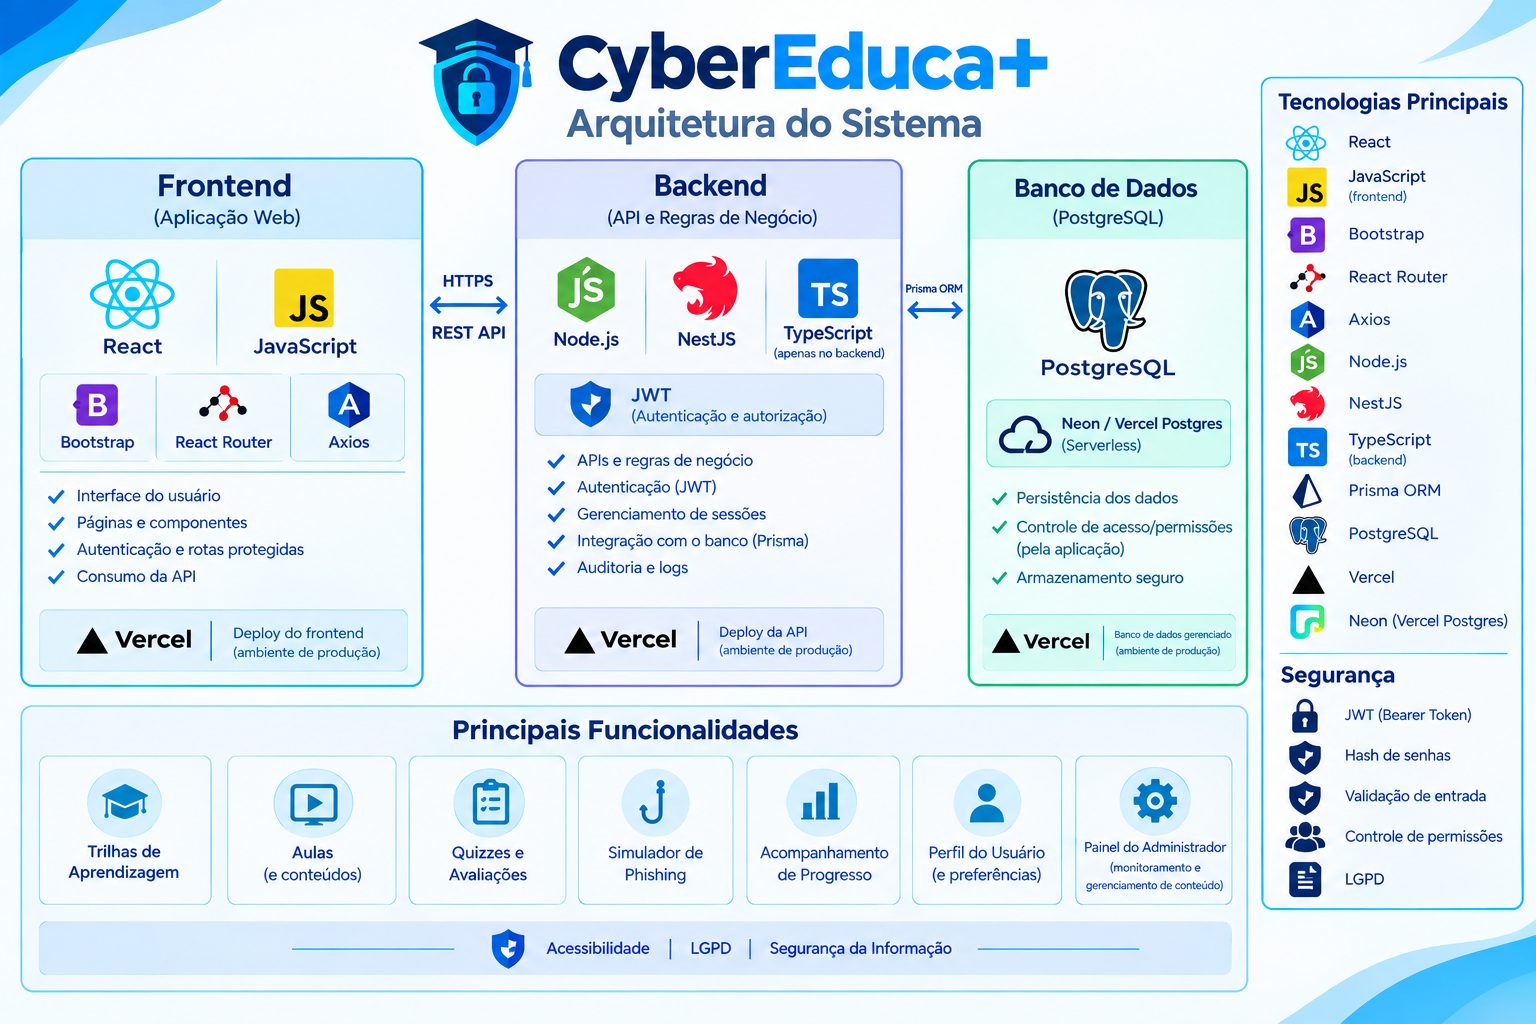
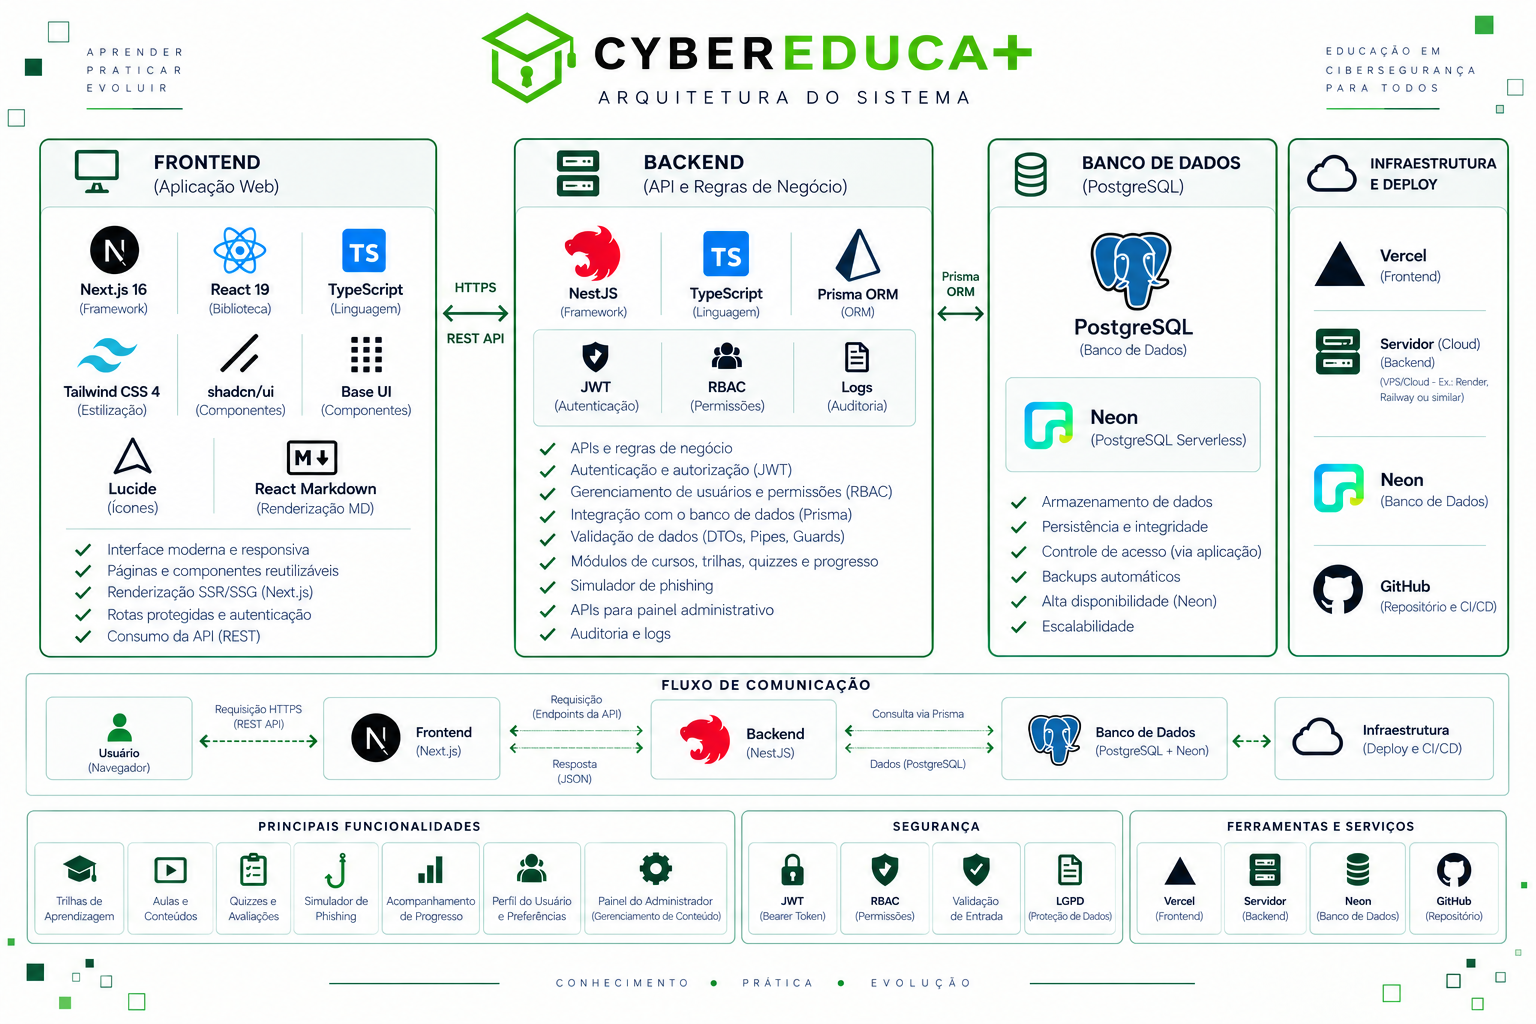
docs: atualiza README

diff --git a/README.md b/README.md
@@ -6,13 +6,13 @@
 
 ![Status](https://img.shields.io/badge/status-em%20desenvolvimento-yellow)
 ![Licença](https://img.shields.io/badge/licença-acadêmica-lightgrey)
-![React](https://img.shields.io/badge/React-61dafb?logo=react&logoColor=black)
-![Vite](https://img.shields.io/badge/Vite-646cff?logo=vite&logoColor=white)
-![JavaScript](https://img.shields.io/badge/JavaScript-f7df1e?logo=javascript&logoColor=black)
-![NestJS](https://img.shields.io/badge/NestJS-e0234e?logo=nestjs&logoColor=white)
+![Next.js](https://img.shields.io/badge/Next.js%2016-000000?logo=nextdotjs&logoColor=white)
+![React](https://img.shields.io/badge/React%2019-61dafb?logo=react&logoColor=black)
 ![TypeScript](https://img.shields.io/badge/TypeScript-3178c6?logo=typescript&logoColor=white)
-![PostgreSQL](https://img.shields.io/badge/PostgreSQL-336791?logo=postgresql&logoColor=white)
+![Tailwind CSS](https://img.shields.io/badge/Tailwind%20CSS%204-06b6d4?logo=tailwindcss&logoColor=white)
+![NestJS](https://img.shields.io/badge/NestJS-e0234e?logo=nestjs&logoColor=white)
 ![Prisma](https://img.shields.io/badge/Prisma-2d3748?logo=prisma&logoColor=white)
+![PostgreSQL](https://img.shields.io/badge/PostgreSQL-336791?logo=postgresql&logoColor=white)
 
 ## Sobre o projeto
 
@@ -26,6 +26,10 @@ Desenvolvido como **Projeto Final de Curso (PFC)** da **Universidade de Mogi das
 
 <br clear="right"/>
 
+## Objetivo
+
+Oferecer uma ferramenta prática e acessível de capacitação em cibersegurança, na qual o usuário aprende por meio de trilhas de conteúdo, valida o conhecimento com quizzes e treina a identificação de ameaças reais através de um simulador de cenários de phishing, com acompanhamento contínuo do seu progresso.
+
 ## Integrantes
 
 | Integrante | Nome completo | RGM |
@@ -36,63 +40,76 @@ Desenvolvido como **Projeto Final de Curso (PFC)** da **Universidade de Mogi das
 
 **Orientador(a):** Alessandro Aparecido da Silva Horas
 
-## Funcionalidades
+## 👥 Atores do Sistema
+
+- **Administrador:** gerencia trilhas, aulas, quizzes, cenários de phishing e usuários da plataforma pelo painel administrativo.
+- **Usuário:** realiza trilhas e aulas, responde quizzes, pratica no simulador de phishing e acompanha sua evolução e histórico de desempenho.
+
+## ⚙ Funcionalidades
 
 - Trilhas de aprendizagem, aulas e conteúdos
 - Acompanhamento de progresso por trilha
 - Quizzes de múltipla escolha com correção e feedback
 - Histórico de desempenho e resultados
 - Simulador de cenários de phishing com classificação e análise de sinais de risco
-- Cadastro, login/logout e perfil básico de usuário
+- Cadastro, login/logout e perfil do usuário (com gerenciamento de preferências)
+- Seção de notícias sobre cibersegurança, com artigos ilustrando ameaças reais
 - Navegação entre as áreas do sistema
 - Painel administrativo (dashboard, gerenciamento de trilhas, quizzes, phishing e usuários)
 
-## Tecnologias
-
-**Front-end:** React.js, Vite, JavaScript, Bootstrap 5, React Router, Axios
-
-**Back-end:** Node.js, NestJS, TypeScript, JWT (autenticação), validação de DTOs
-
-**Banco de dados:** PostgreSQL, Prisma ORM
-
-**Deploy:** Vercel (front-end e API como funções serverless), Vercel Postgres / Neon
-
-**Qualidade:** ESLint, Jest, testes unitários e de integração
-
-## Arquitetura
+## 🏗 Arquitetura
 
 ![Arquitetura do CyberEduca+](./assets/arquitetura.png)
 
-O front-end (React + Vite) consome a API REST do back-end (NestJS) via Axios, com autenticação por JWT. O back-end se conecta ao PostgreSQL através do Prisma ORM. Front-end e API são publicados como funções serverless na Vercel, com o banco hospedado no Vercel Postgres / Neon.
+O front-end (**Next.js**) consome a API REST do back-end (**NestJS**) via HTTPS, com autenticação por **JWT**. O back-end aplica regras de negócio, autenticação/autorização (JWT), controle de permissões (**RBAC**), validação de dados (DTOs, Pipes, Guards) e auditoria (logs), além de gerenciar os módulos de cursos, trilhas, quizzes, progresso e o simulador de phishing. A comunicação com o banco de dados é feita através do **Prisma ORM**, conectado ao **PostgreSQL** hospedado no **Neon** (PostgreSQL Serverless). O front-end é publicado na **Vercel**, e o back-end em um servidor cloud (VPS/Cloud), com repositório e CI/CD no **GitHub**.
+
+**Fluxo de comunicação:** Usuário (navegador) → Frontend (Next.js) → Requisição REST (Backend NestJS) → Consulta via Prisma → Banco de Dados (PostgreSQL + Neon) → Infraestrutura (Deploy e CI/CD).
+
+## 🛠 Stack Tecnológica
+
+| Camada | Tecnologias |
+|---|---|
+| **Front-end** | Next.js 16, React 19, TypeScript, Tailwind CSS 4, shadcn/ui, Base UI, Lucide (ícones), React Markdown |
+| **Back-end** | Node.js, NestJS, TypeScript, JWT (autenticação), RBAC (permissões), validação de DTOs, Logs (auditoria) |
+| **Banco de Dados** | PostgreSQL, Prisma ORM, Neon (PostgreSQL Serverless) |
+| **Deploy** | Vercel (front-end), Servidor Cloud (back-end — ex.: Render, Railway ou similar), Neon (banco de dados), GitHub (repositório e CI/CD) |
+| **Qualidade** | ESLint, Jest, testes unitários e de integração |
 
 ## Como rodar o projeto localmente
 
 ### Pré-requisitos
 
 - Node.js (LTS) e npm
-- PostgreSQL (local ou uma URL de conexão remota)
+- PostgreSQL (local ou uma URL de conexão remota, ex.: Neon)
 
-### 1. Front-end
-
-```bash
-cd frontend
-npm install
-npm run dev
-```
-
-### 2. Back-end
+### 1. Back-end
 
 ```bash
 cd backend
 npm install
+cp .env.example .env   # preencher com a senha do banco (DATABASE_URL)
 ```
 
-Configure o arquivo `.env` (baseado em `.env.example`, quando existir) com a variável `DATABASE_URL` apontando para o seu banco PostgreSQL.
+Crie um banco PostgreSQL local chamado `cybereduca` e rode as migrations:
 
 ```bash
 npx prisma migrate dev
+npm run db:seed        # popula uma trilha e uma aula vazias
 npm run start:dev
 ```
+
+A API sobe em `http://localhost:3000`.
+
+### 2. Front-end
+
+```bash
+cd frontend
+npm install
+cp .env.local.example .env.local
+npm run dev
+```
+
+O frontend sobe em `http://localhost:3001` (o CORS da API já está liberado para essa porta).
 
 ## Metodologia
 
@@ -100,16 +117,33 @@ Desenvolvimento em **Scrum**, com gestão de tarefas via Monday e comunicação 
 
 ## Segurança e LGPD
 
-- Autenticação via JWT
+Modelo de segurança planejado para o MVP (parte ainda em implementação — ver [Status do Projeto](#-status-do-projeto)):
+
+- Autenticação via JWT (Bearer Token)
 - Hash de senhas
+- Controle de acesso por perfil (RBAC — usuário/administrador)
 - Validação de entrada
-- Controle de acesso por perfil (usuário/administrador)
+- Auditoria e logs
 - Tratamento de dados pessoais conforme a LGPD (Lei nº 13.709/2018)
+
+## 📌 Status do Projeto
+
+Projeto em desenvolvimento ativo, seguindo o cronograma do PFC (2026).
+
+- [x] Definição de escopo e arquitetura
+- [x] Modelagem inicial de dados
+- [x] Módulo de trilhas e aulas 
+- [ ] Autenticação e autorização (JWT + RBAC) — hoje a API usa um usuário demo fixo
+- [ ] Módulo de quizzes
+- [ ] Simulador de phishing
+- [ ] Painel administrativo
+- [ ] Dashboards de desempenho (a página de progresso do frontend já consome a API, mas segue em evolução)
+- [ ] Testes automatizados
 
 ## Licença e uso de dados
 
 O uso de bibliotecas, APIs, ferramentas de IA e demais recursos de terceiros é identificado e documentado no projeto. O tratamento de dados pessoais, quando existente, observa os princípios e requisitos legais e institucionais aplicáveis.
 
-## Instituição
+## 🎓 Instituição
 
 Projeto desenvolvido para a **Universidade de Mogi das Cruzes - UMC** · Mogi das Cruzes - SP, 2026.
